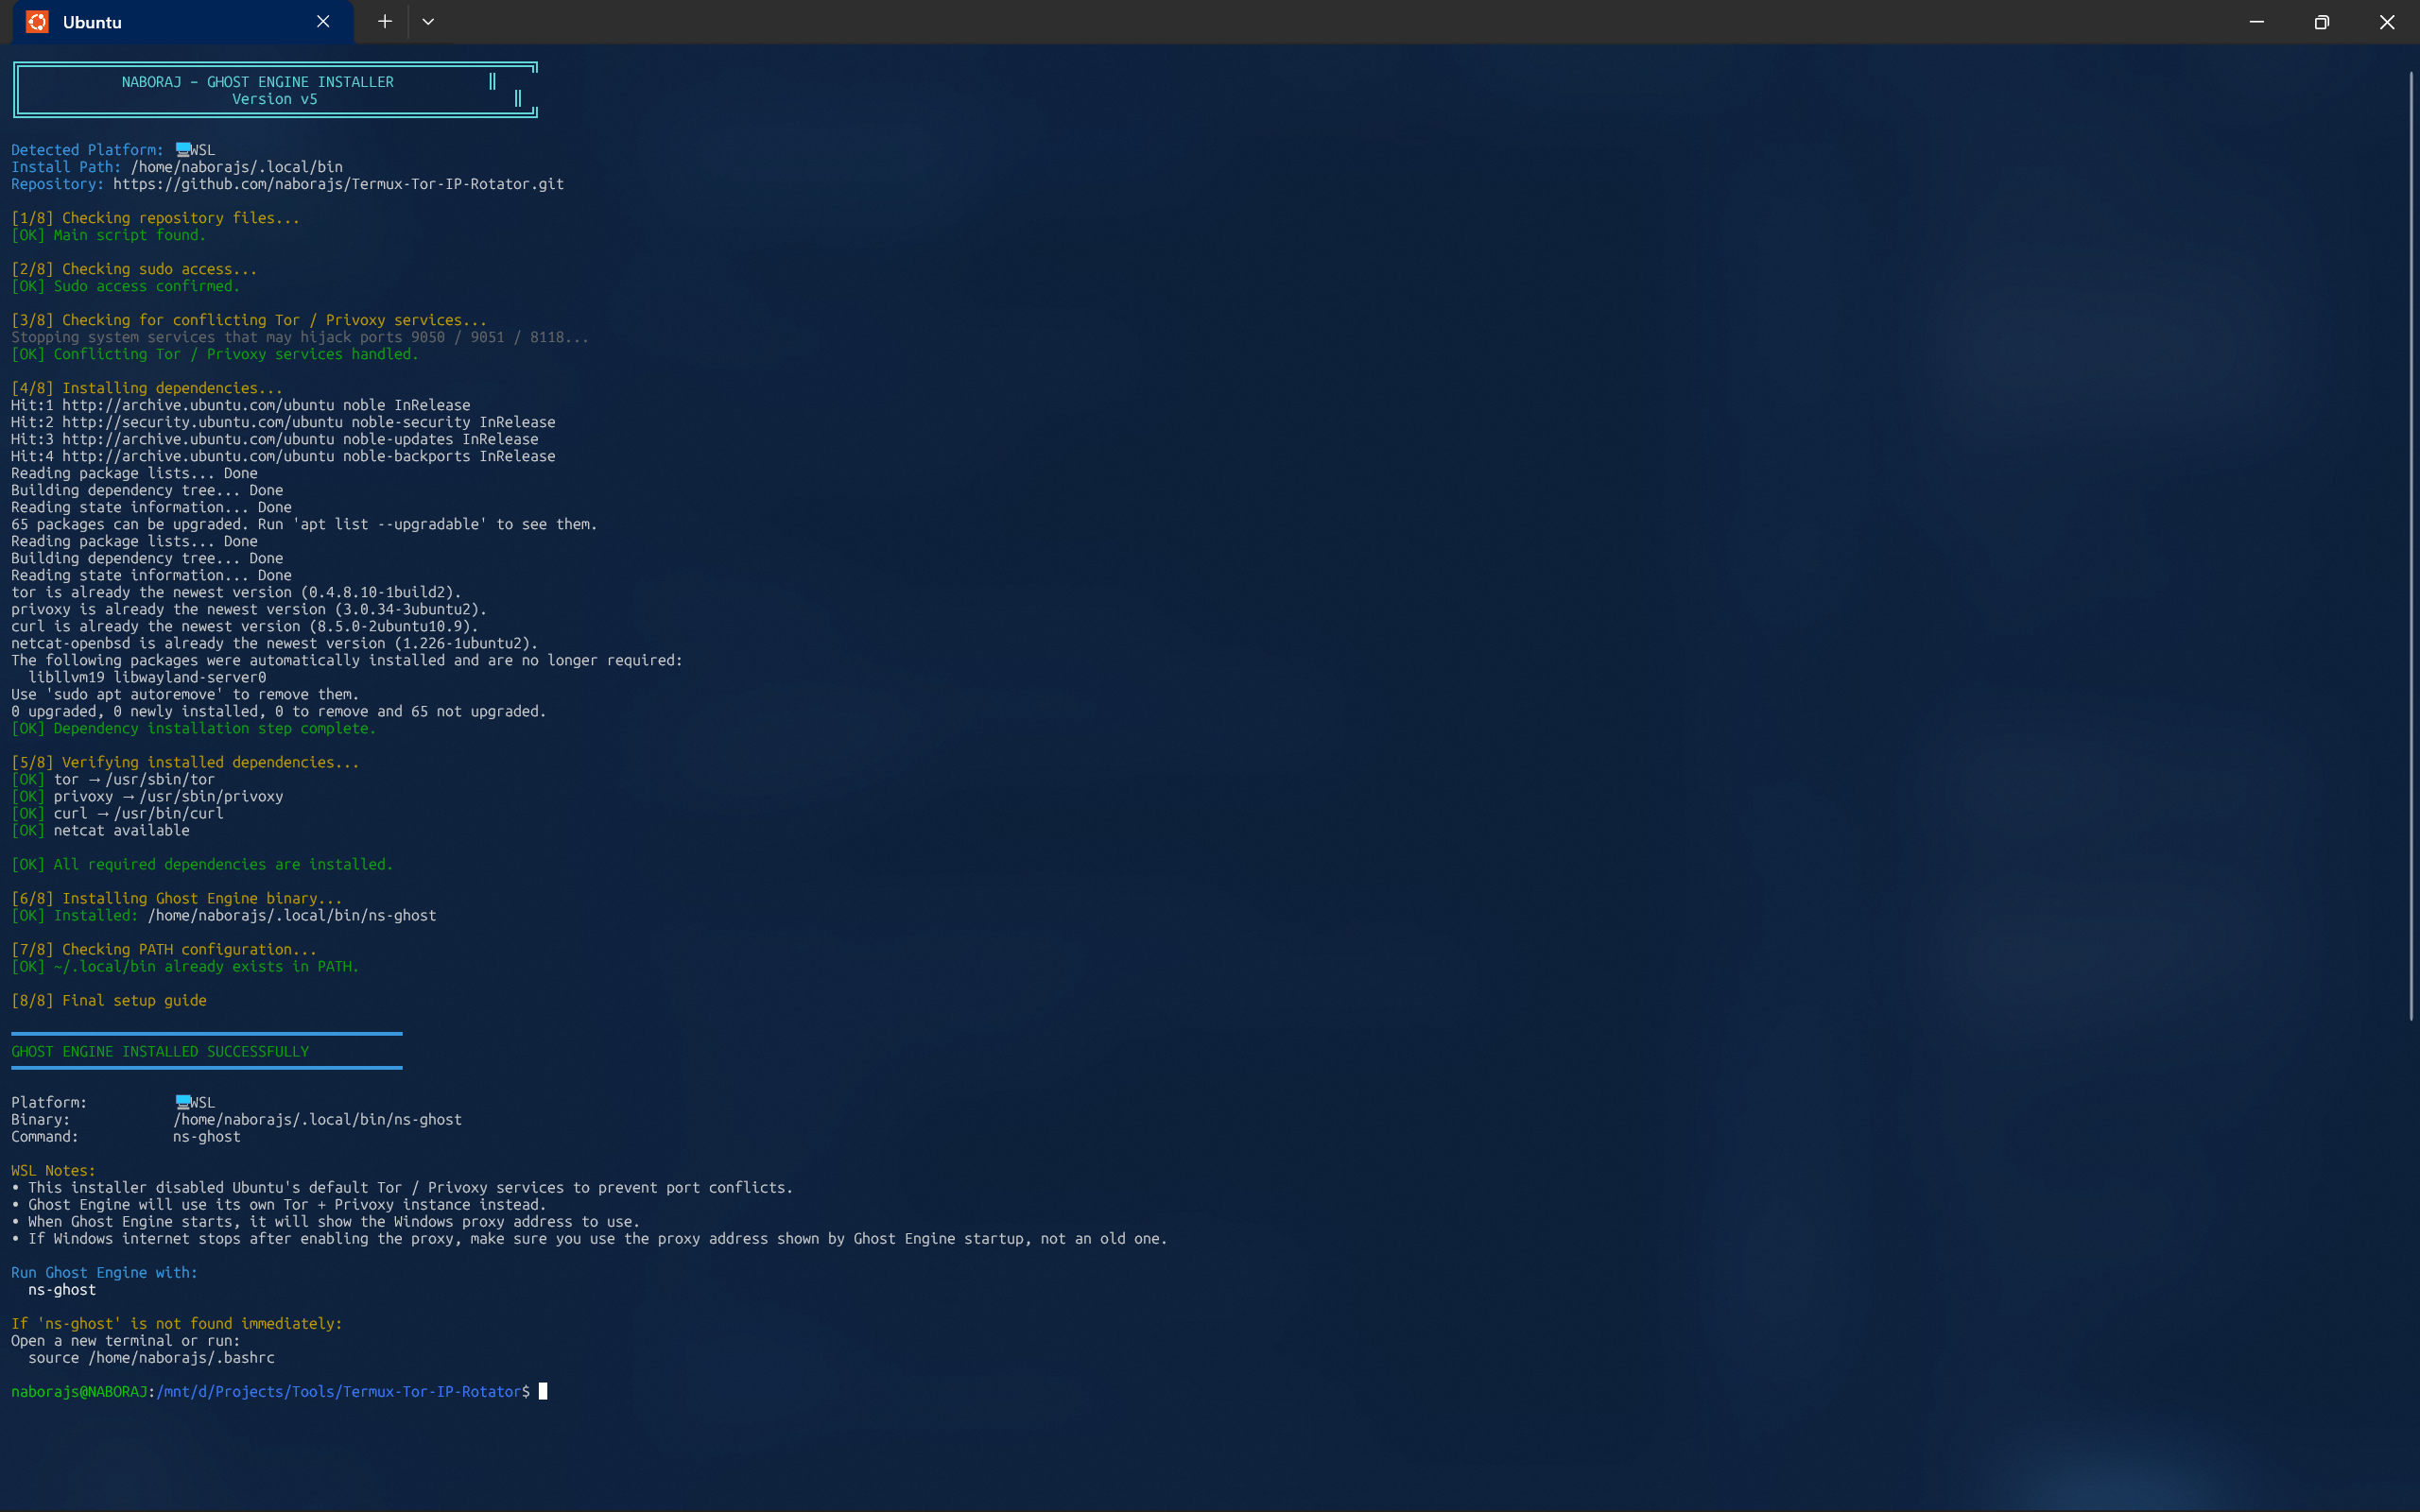
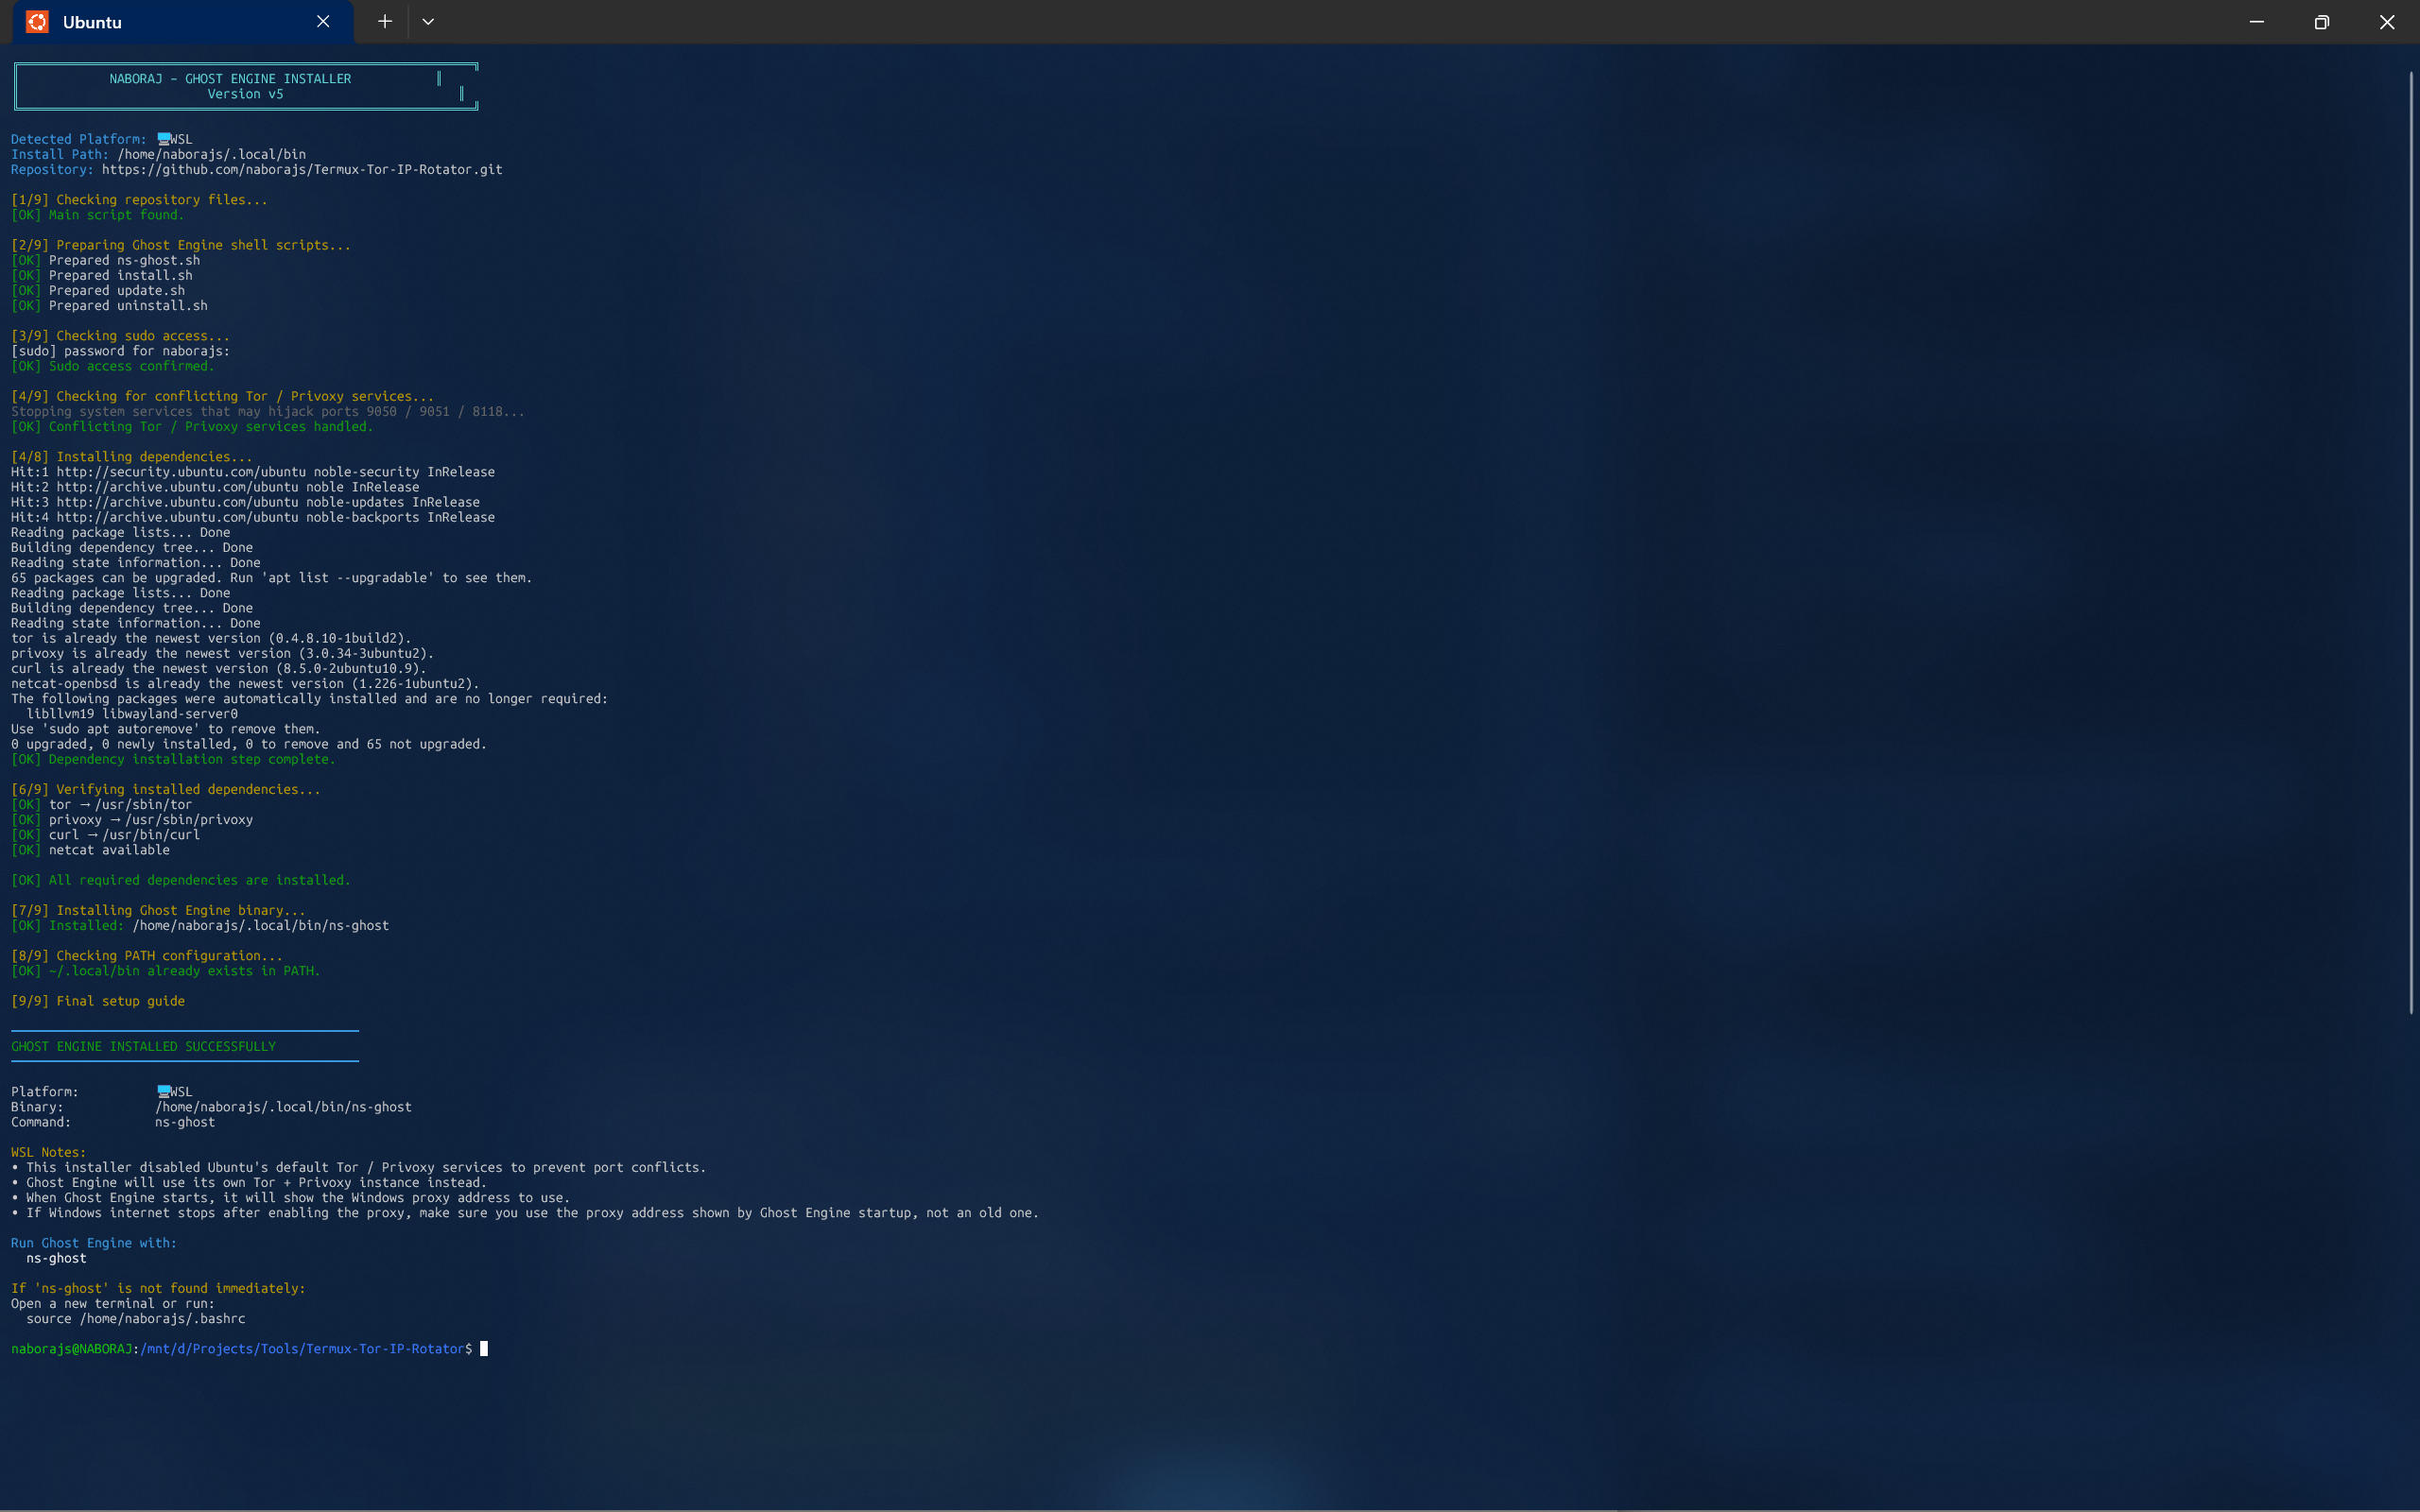
Did some tuicks to make the exprience even better.

Changed region(s): [[0.0, 0.0312, 0.3438, 0.9375], [0.8438, 0.9688, 0.9062, 1.0], [0.4688, 0.9688, 0.5312, 1.0]]

diff --git a/README.md b/README.md
@@ -170,8 +170,8 @@ cd Termux-Tor-IP-Rotator
 Ghost Engine includes a built-in installer that handles dependency installation and global command setup for Termux.
 
 ```bash id="yn7v9a"
-chmod +x install.sh
-bash install.sh
+chmod +x install.sh #NOT REQURED, but recommended to ensure the script is executable.
+bash install.sh # MAIN COMMAND TO RUN THE INSTALLER.
 ```
 
 The installer will automatically:
@@ -276,7 +276,35 @@ If the two IPs are different, Ghost Engine is routing through TOR successfully.
 * If you are rotating IPs very quickly, expect occasional duplicate exit nodes — that is normal TOR behavior.
 
 ---
+<h2 align="center"> Update & Removal Terminal Preview</h2>
 
+<p align="center">
+  <img src="assets/INSTALLER_PRIVEW.png" alt="Ghost Engine Installer Preview" width="1000">
+</p>
+
+<p align="center">
+  <em>Ghost Engine installer setup flow — platform detection, dependency installation, binary setup, and guided onboarding.</em>
+</p>
+
+<br>
+
+<p align="center">
+  <img src="assets/UPDATER_PRIVEW.png" alt="Ghost Engine Updater Preview" width="1000">
+</p>
+
+<p align="center">
+  <em>Ghost Engine updater flow — repository update, installer refresh, and latest build deployment.</em>
+</p>
+
+<br>
+
+<p align="center">
+  <img src="assets/UNINSTALLER_PRIVEW.png" alt="Ghost Engine Uninstaller Preview" width="1000">
+</p>
+
+<p align="center">
+  <em>Ghost Engine uninstaller flow — warning prompts, launcher cleanup, data removal, and full uninstall summary.</em>
+</p>
 ## 10) Updating or Removing Ghost Engine on Termux
 
 ### Update to the latest version